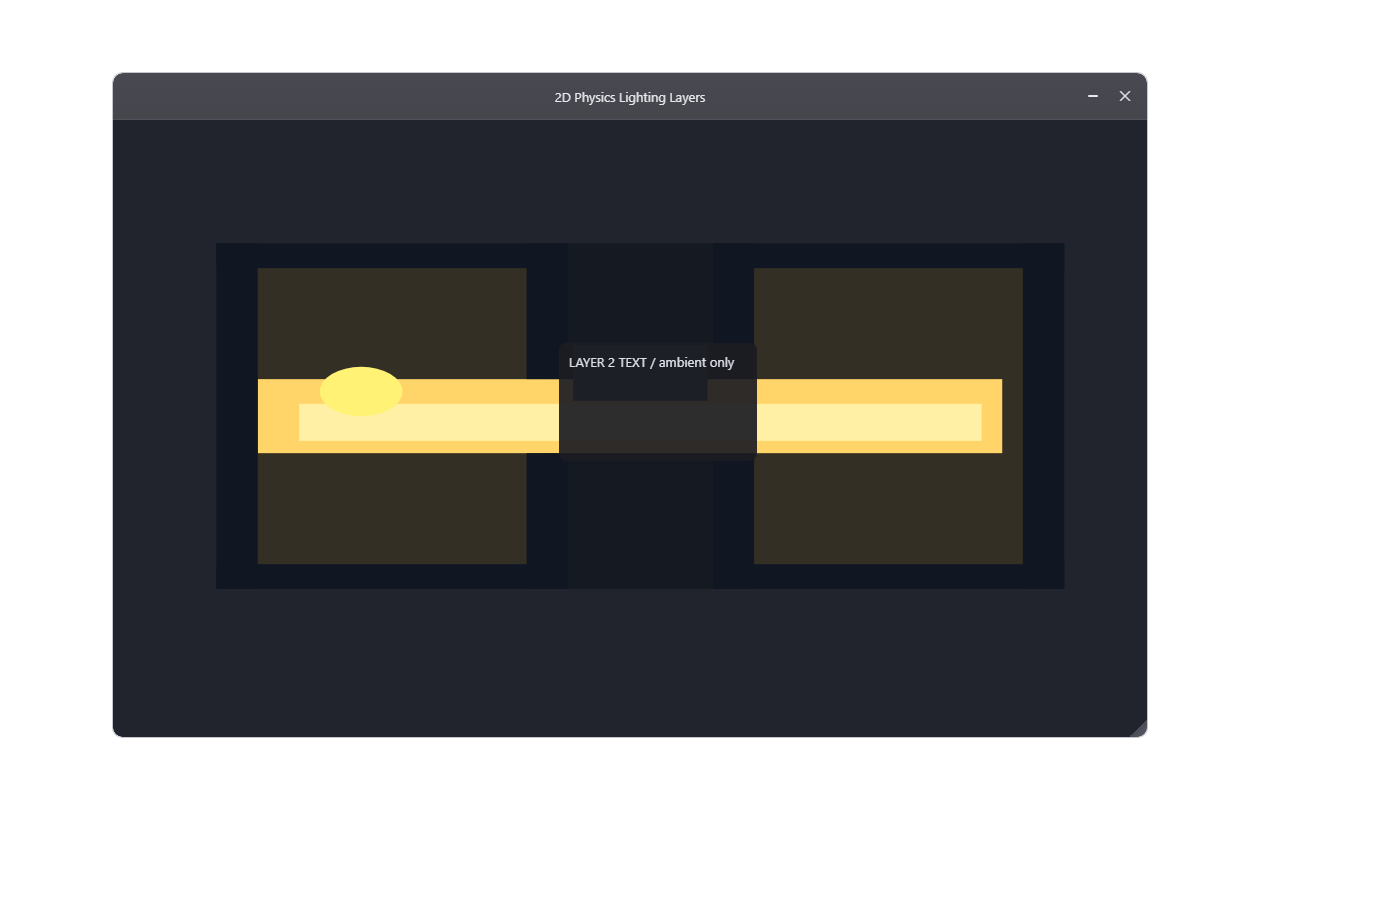
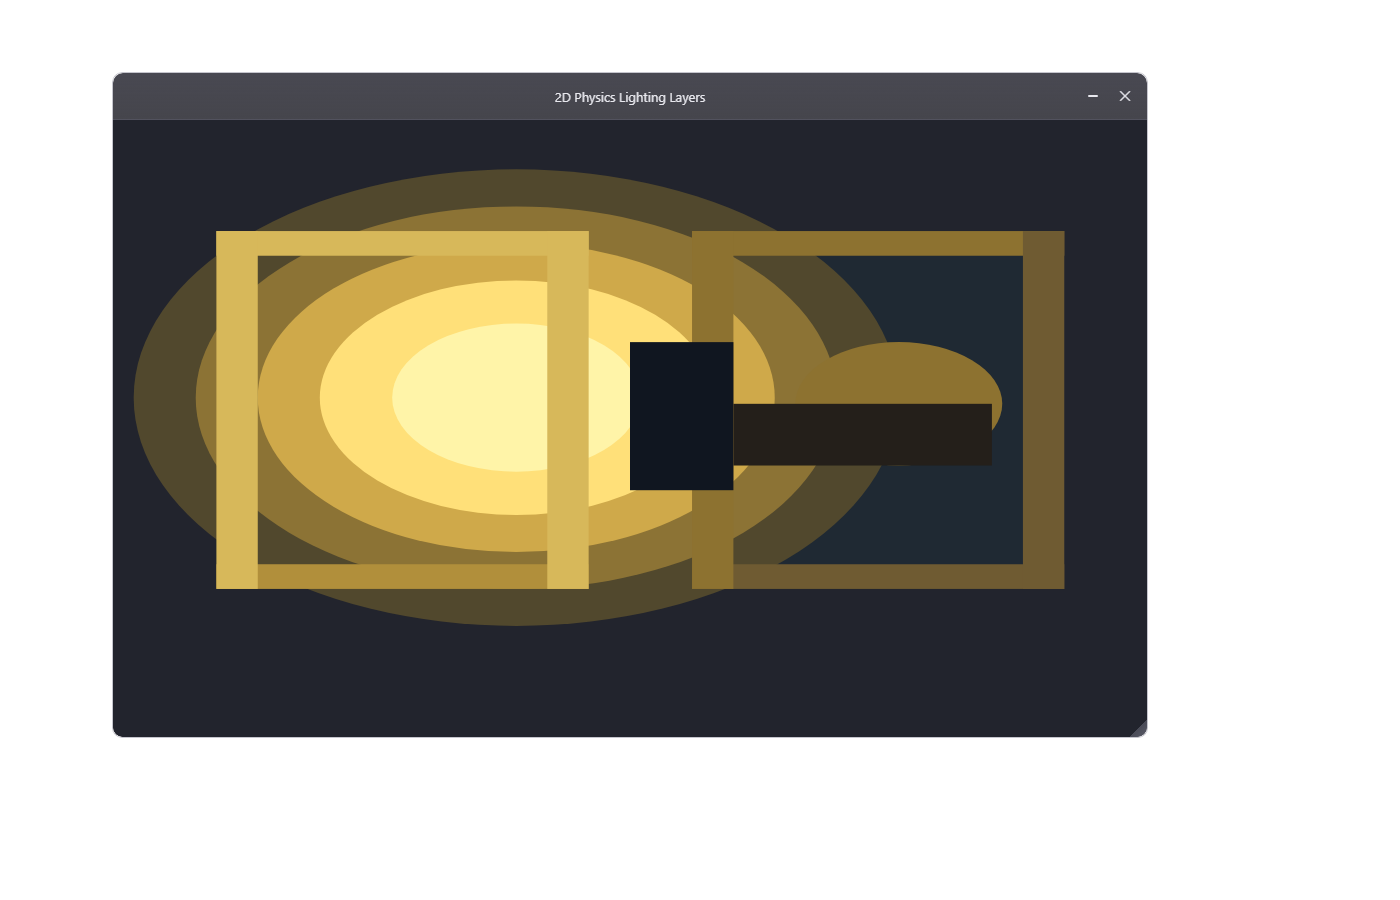
Correct lighting proof layer semantics

Changed region(s): [[0.0921, 0.1867, 0.7679, 0.7156]]

diff --git a/tests/test_readme_surface.py b/tests/test_readme_surface.py
@@ -57,17 +57,15 @@ class TestReadmeGeneratedExamples:
             "illuminates_lower_layers": True,
         }
         assert meshes["lower_room_backgrounds"]["physics"]["layer"] == 0
-        assert meshes["lower_room_backgrounds"]["physics"]["light_result"] == "lit_through_room_openings"
-        assert meshes["light_path_through_openings"]["physics"]["layer"] == 0
-        assert meshes["light_path_through_openings"]["physics"]["light_result"] == (
-            "passes_through_two_wall_openings"
-        )
-        assert meshes["same_layer_room_walls"]["physics"]["layer"] == 1
-        assert meshes["same_layer_room_walls"]["physics"]["blocks_light"] is True
-        assert meshes["closed_wall_shadow"]["physics"]["light_result"] == "blocks_light_outside_openings"
-        assert meshes["upper_ambient_text"]["physics"]["layer"] == 2
-        assert meshes["upper_ambient_text"]["physics"]["ambient_only"] is True
-        assert meshes["upper_ambient_text"]["physics"]["light_result"] == "ambient_only_text_above_light"
+        assert meshes["lower_room_backgrounds"]["physics"]["light_result"] == "lit_by_circular_layer_1_light"
+        assert meshes["lower_radial_light_field"]["physics"]["layer"] == 0
+        assert meshes["lower_radial_light_field"]["physics"]["light_result"] == "radial_light_on_layers_below"
+        assert meshes["lower_room_walls"]["physics"]["layer"] == 0
+        assert meshes["lower_room_walls"]["physics"]["blocks_light"] is False
+        assert meshes["lower_room_walls"]["physics"]["light_result"] == "illuminated_because_below_light"
+        assert meshes["same_layer_blocker"]["physics"]["layer"] == 1
+        assert meshes["same_layer_blocker"]["physics"]["blocks_light"] is True
+        assert meshes["same_layer_blocker"]["physics"]["light_result"] == "casts_shadow_on_lower_layer"
 
 
 class TestStringInterpolation:

diff --git a/scripts/render_readme_ui_assets.py b/scripts/render_readme_ui_assets.py
@@ -61,7 +61,7 @@ README_ASSETS: tuple[ReadmeAsset, ...] = (
         marker="ui-physics-layer-lighting",
         example=REPO / "examples" / "generated" / "readme" / "ui_physics_layer_lighting.vkf",
         output_name="ui-physics-layer-lighting.png",
-        caption="`examples/generated/readme/ui_physics_layer_lighting.vkf` — 2D physics lighting layers: same-layer blockers, lit lower surfaces, and ambient-only upper surfaces.",
+        caption="`examples/generated/readme/ui_physics_layer_lighting.vkf` — 2D circular lighting: lower room walls are illuminated, while a same-layer blocker casts shadow.",
         viewport=(1400, 900),
         wait_ms=1200,
     ),
@@ -340,14 +340,14 @@ def _verify_physics_layer_lighting_capture(path: Path) -> None:
         raise RuntimeError(f"expected physics lighting proof to be 1400x900, got {image.size}")
 
     samples = {
-        "left room lower-layer background": ((390, 310), (52, 47, 37), 10),
-        "right room lower-layer background": ((890, 310), (52, 47, 37), 10),
-        "layer 1 light source": ((360, 390), (255, 242, 117), 10),
-        "beam in left room": ((450, 420), (255, 240, 166), 10),
-        "beam reaching right room": ((860, 420), (255, 240, 166), 10),
-        "same-layer wall blocker": ((390, 250), (17, 23, 34), 10),
-        "upper ambient text plate": ((650, 370), (29, 31, 39), 10),
-        "visible upper-layer text": ((693, 362), (191, 192, 201), 20),
+        "circular light core": ((515, 400), (255, 244, 168), 10),
+        "circular light falloff ring": ((275, 400), (207, 169, 74), 10),
+        "illuminated left room wall": ((235, 270), (215, 184, 90), 10),
+        "illuminated center wall below light": ((565, 360), (215, 184, 90), 10),
+        "illuminated right room wall": ((710, 250), (141, 114, 48), 10),
+        "same-layer blocker": ((680, 400), (16, 22, 32), 10),
+        "shadow cast by blocker": ((835, 430), (36, 31, 26), 10),
+        "text-free blocker area": ((650, 365), (16, 22, 32), 10),
     }
     for label, (xy, expected, tolerance) in samples.items():
         try:

diff --git a/README.md b/README.md
@@ -1466,10 +1466,10 @@ The first 2D lighting slice attaches a `physics` record to field meshes and
 lights so the world simulator can reason about layers, blockers, and ambient
 surfaces without introducing a second geometry format.
 
-In this example the light is on layer `1` inside the left room. The room walls
-are same-layer blockers, but their openings let the beam reach the lower-layer
-room backgrounds. The text between the rooms is modeled as layer `2`, so it
-keeps only ambient lighting even while the layer below it is lit.
+In this example the light is on layer `1` inside the left room. The rooms and
+their walls are layer `0`, below the light, so they are illuminated by the
+circular light field. Only the small obstacle on layer `1` blocks light and
+casts a shadow across the lower layer.
 
 <!-- readme-example: ui_physics_layer_lighting.vkf -->
 ```vkf
@@ -1481,33 +1481,26 @@ f: d.frame(id: "physics_layer_light_frame", title: "2D Physics Lighting Layers",
 d.add_frame(f, (0.08, 0.08, 0.74, 0.74))
 g: d.frame(id: "physics_layer_light_canvas", title: "", alpha: 1.0, frameless: true, draggable: false, dockable: false, resizable: false, closable: false, dock_loc: "tl")
 d.add_frame(g, (0.0, 0.0, 0.01, 0.01), in_frame: f)
-label_frame: d.frame(id: "physics_layer_above_text", title: "", alpha: 0.96, frameless: true, draggable: false, dockable: false, resizable: false, closable: false, dock_loc: "tl", body_transparent: true)
-d.add_frame(
-  label_frame,
-  (0.43, 0.36, 0.16, 0.08),
-  in_frame: f,
-  body: [d.widget.label("ambient_label", text: "LAYER 2 TEXT / ambient only")]
-)
 
 f.draw_rect((0.00, 0.00, 1.00, 1.00), color: "#22242d")
-f.draw_rect((0.12, 0.24, 0.30, 0.48), color: "#342f25")
-f.draw_rect((0.60, 0.24, 0.30, 0.48), color: "#342f25")
-f.draw_rect((0.14, 0.42, 0.72, 0.12), color: "#ffd56a")
-f.draw_rect((0.18, 0.46, 0.66, 0.06), color: "#fff0a6")
-f.add_oval((0.20, 0.40, 0.08, 0.08), color: "#fff275")
-f.draw_rect((0.10, 0.20, 0.34, 0.04), color: "#111722")
-f.draw_rect((0.10, 0.72, 0.34, 0.04), color: "#111722")
-f.draw_rect((0.10, 0.20, 0.04, 0.56), color: "#111722")
-f.draw_rect((0.40, 0.20, 0.04, 0.22), color: "#111722")
-f.draw_rect((0.40, 0.54, 0.04, 0.22), color: "#111722")
-f.draw_rect((0.58, 0.20, 0.34, 0.04), color: "#111722")
-f.draw_rect((0.58, 0.72, 0.34, 0.04), color: "#111722")
-f.draw_rect((0.88, 0.20, 0.04, 0.56), color: "#111722")
-f.draw_rect((0.58, 0.20, 0.04, 0.22), color: "#111722")
-f.draw_rect((0.58, 0.54, 0.04, 0.22), color: "#111722")
-f.draw_rect((0.44, 0.20, 0.14, 0.22), color: "#151922")
-f.draw_rect((0.44, 0.54, 0.14, 0.22), color: "#151922")
-f.draw_rect((0.445, 0.365, 0.13, 0.09), color: "#29455c")
+f.draw_rect((0.10, 0.18, 0.36, 0.58), color: "#1f2933")
+f.draw_rect((0.56, 0.18, 0.36, 0.58), color: "#1f2933")
+f.add_oval((0.02, 0.08, 0.74, 0.74), color: "#51482d")
+f.add_oval((0.08, 0.14, 0.62, 0.62), color: "#8c7335")
+f.add_oval((0.14, 0.20, 0.50, 0.50), color: "#cfa94a")
+f.add_oval((0.20, 0.26, 0.38, 0.38), color: "#ffe079")
+f.add_oval((0.27, 0.33, 0.24, 0.24), color: "#fff4a8")
+f.add_oval((0.66, 0.36, 0.20, 0.20), color: "#8d7230")
+f.draw_rect((0.10, 0.18, 0.36, 0.04), color: "#d7b85a")
+f.draw_rect((0.10, 0.72, 0.36, 0.04), color: "#b18f3b")
+f.draw_rect((0.10, 0.18, 0.04, 0.58), color: "#d7b85a")
+f.draw_rect((0.42, 0.18, 0.04, 0.58), color: "#d7b85a")
+f.draw_rect((0.56, 0.18, 0.36, 0.04), color: "#8d7230")
+f.draw_rect((0.56, 0.72, 0.36, 0.04), color: "#6f5b32")
+f.draw_rect((0.88, 0.18, 0.04, 0.58), color: "#6f5b32")
+f.draw_rect((0.56, 0.18, 0.04, 0.58), color: "#8d7230")
+f.draw_rect((0.50, 0.36, 0.10, 0.24), color: "#101620")
+f.draw_rect((0.60, 0.46, 0.25, 0.10), color: "#241f1a")
 
 room_bg_x: [[-1.0, -0.18, 0.18, 1.0], [-1.0, -0.18, 0.18, 1.0]] -> uv
 room_bg_y: [[-0.72, -0.72, -0.72, -0.72], [0.62, 0.62, 0.62, 0.62]] -> uv
@@ -1532,23 +1525,23 @@ g.add(
     kind: "surface2d",
     layer: 0,
     receives_light: true,
-    light_result: "lit_through_room_openings"
+    light_result: "lit_by_circular_layer_1_light"
   )
 )
 
-beam_x: [[-0.78, 0.78], [-0.78, 0.78]] -> uv
-beam_y: [[-0.18, -0.18], [0.16, 0.16]] -> uv
-beam_z: [[0.0, 0.0], [0.0, 0.0]] -> uv
-beam_c: [
-  [[1.0, 0.94, 0.55, 1.0], [1.0, 0.84, 0.24, 1.0]],
-  [[1.0, 0.88, 0.34, 1.0], [1.0, 0.78, 0.18, 1.0]]
+field_x: [[-0.95, 0.05, 0.95], [-0.95, 0.05, 0.95]] -> uv
+field_y: [[-0.72, -0.72, -0.72], [0.72, 0.72, 0.72]] -> uv
+field_z: [[0.0, 0.0, 0.0], [0.0, 0.0, 0.0]] -> uv
+field_c: [
+  [[0.34, 0.28, 0.16, 1.0], [1.0, 0.90, 0.48, 1.0], [0.44, 0.34, 0.16, 1.0]],
+  [[0.24, 0.22, 0.18, 1.0], [0.72, 0.58, 0.28, 1.0], [0.22, 0.20, 0.16, 1.0]]
 ] -> uv
 g.add(
-  id: "light_path_through_openings",
-  x: beam_x,
-  y: beam_y,
-  z: beam_z,
-  c: beam_c,
+  id: "lower_radial_light_field",
+  x: field_x,
+  y: field_y,
+  z: field_z,
+  c: field_c,
   representation: "faces",
   render_mode: "proxy_geometry",
   mode3d: false,
@@ -1559,7 +1552,7 @@ g.add(
     kind: "surface2d",
     layer: 0,
     receives_light: true,
-    light_result: "passes_through_two_wall_openings"
+    light_result: "radial_light_on_layers_below"
   )
 )
 
@@ -1571,7 +1564,7 @@ wall_c: [
   [[0.10, 0.12, 0.16, 1.0], [0.10, 0.12, 0.16, 1.0], [0.10, 0.12, 0.16, 1.0], [0.10, 0.12, 0.16, 1.0]]
 ] -> uv
 g.add(
-  id: "same_layer_room_walls",
+  id: "lower_room_walls",
   x: wall_x,
   y: wall_y,
   z: wall_z,
@@ -1584,26 +1577,26 @@ g.add(
   receives_lighting: false,
   physics: (
     kind: "surface2d",
-    layer: 1,
-    blocks_light: true,
+    layer: 0,
+    blocks_light: false,
     receives_light: true,
-    light_result: "same_layer_blockers_with_openings"
+    light_result: "illuminated_because_below_light"
   )
 )
 
-closed_wall_x: [[-0.18, 0.18], [-0.18, 0.18]] -> uv
-closed_wall_y: [[0.22, 0.22], [0.56, 0.56]] -> uv
-closed_wall_z: [[0.0, 0.0], [0.0, 0.0]] -> uv
-closed_wall_c: [
+blocker_x: [[-0.08, 0.16], [-0.08, 0.16]] -> uv
+blocker_y: [[-0.06, -0.06], [0.34, 0.34]] -> uv
+blocker_z: [[0.0, 0.0], [0.0, 0.0]] -> uv
+blocker_c: [
   [[0.08, 0.10, 0.13, 1.0], [0.10, 0.12, 0.16, 1.0]],
   [[0.08, 0.10, 0.13, 1.0], [0.10, 0.12, 0.16, 1.0]]
 ] -> uv
 g.add(
-  id: "closed_wall_shadow",
-  x: closed_wall_x,
-  y: closed_wall_y,
-  z: closed_wall_z,
-  c: closed_wall_c,
+  id: "same_layer_blocker",
+  x: blocker_x,
+  y: blocker_y,
+  z: blocker_z,
+  c: blocker_c,
   representation: "faces",
   render_mode: "proxy_geometry",
   mode3d: false,
@@ -1615,40 +1608,12 @@ g.add(
     layer: 1,
     blocks_light: true,
     receives_light: true,
-    light_result: "blocks_light_outside_openings"
+    light_result: "casts_shadow_on_lower_layer"
   )
 )
 
-text_x: [[-0.12, 0.12], [-0.12, 0.12]] -> uv
-text_y: [[-0.02, -0.02], [0.18, 0.18]] -> uv
-text_z: [[0.0, 0.0], [0.0, 0.0]] -> uv
-text_c: [
-  [[0.18, 0.32, 0.46, 0.82], [0.20, 0.38, 0.52, 0.82]],
-  [[0.18, 0.32, 0.46, 0.82], [0.22, 0.42, 0.58, 0.82]]
-] -> uv
-g.add(
-  id: "upper_ambient_text",
-  x: text_x,
-  y: text_y,
-  z: text_z,
-  c: text_c,
-  representation: "faces",
-  render_mode: "proxy_geometry",
-  mode3d: false,
-  aspect: "equal",
-  axis_full_frame: true,
-  receives_lighting: false,
-  physics: (
-    kind: "surface2d",
-    layer: 2,
-    receives_light: false,
-    ambient_only: true,
-    light_result: "ambient_only_text_above_light"
-  )
-)
-
-light_x: [[-0.78, -0.62], [-0.78, -0.62]] -> uv
-light_y: [[-0.12, -0.12], [0.08, 0.08]] -> uv
+light_x: [[-0.52, -0.32], [-0.52, -0.32]] -> uv
+light_y: [[-0.10, -0.10], [0.10, 0.10]] -> uv
 light_z: [[0.0, 0.0], [0.0, 0.0]] -> uv
 light_c: [
   [[1.0, 0.96, 0.55, 1.0], [1.0, 0.96, 0.55, 1.0]],
@@ -1678,7 +1643,7 @@ g.add(
 
 <!-- readme-asset: ui-physics-layer-lighting -->
 ![ui-physics-layer-lighting](docs/public/images/readme-ui/ui-physics-layer-lighting.png)
-*`examples/generated/readme/ui_physics_layer_lighting.vkf` — 2D physics lighting layers: same-layer blockers, lit lower surfaces, and ambient-only upper surfaces.*
+*`examples/generated/readme/ui_physics_layer_lighting.vkf` — 2D circular lighting: lower room walls are illuminated, while a same-layer blocker casts shadow.*
 
 ### Native Scene Packets
 